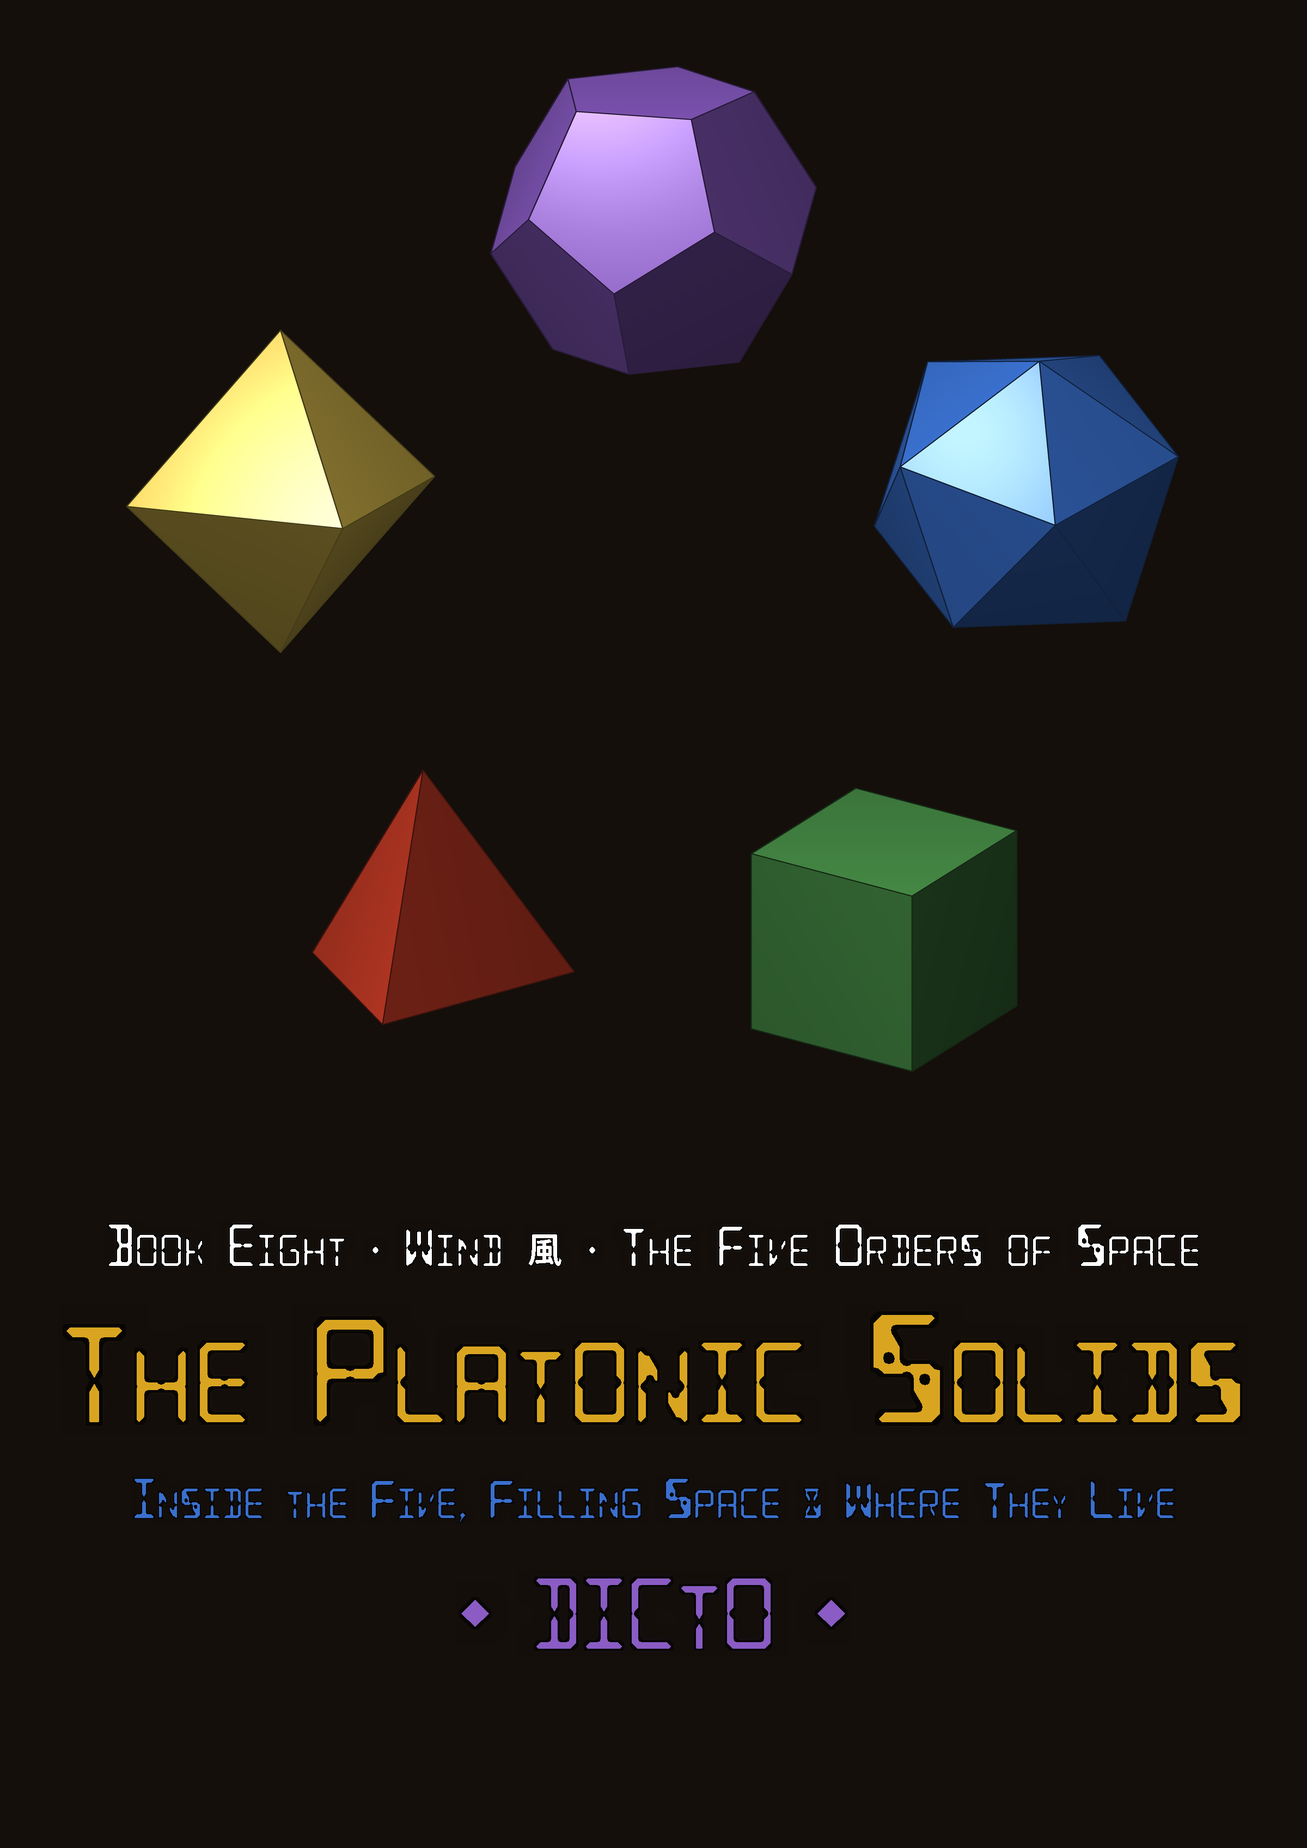
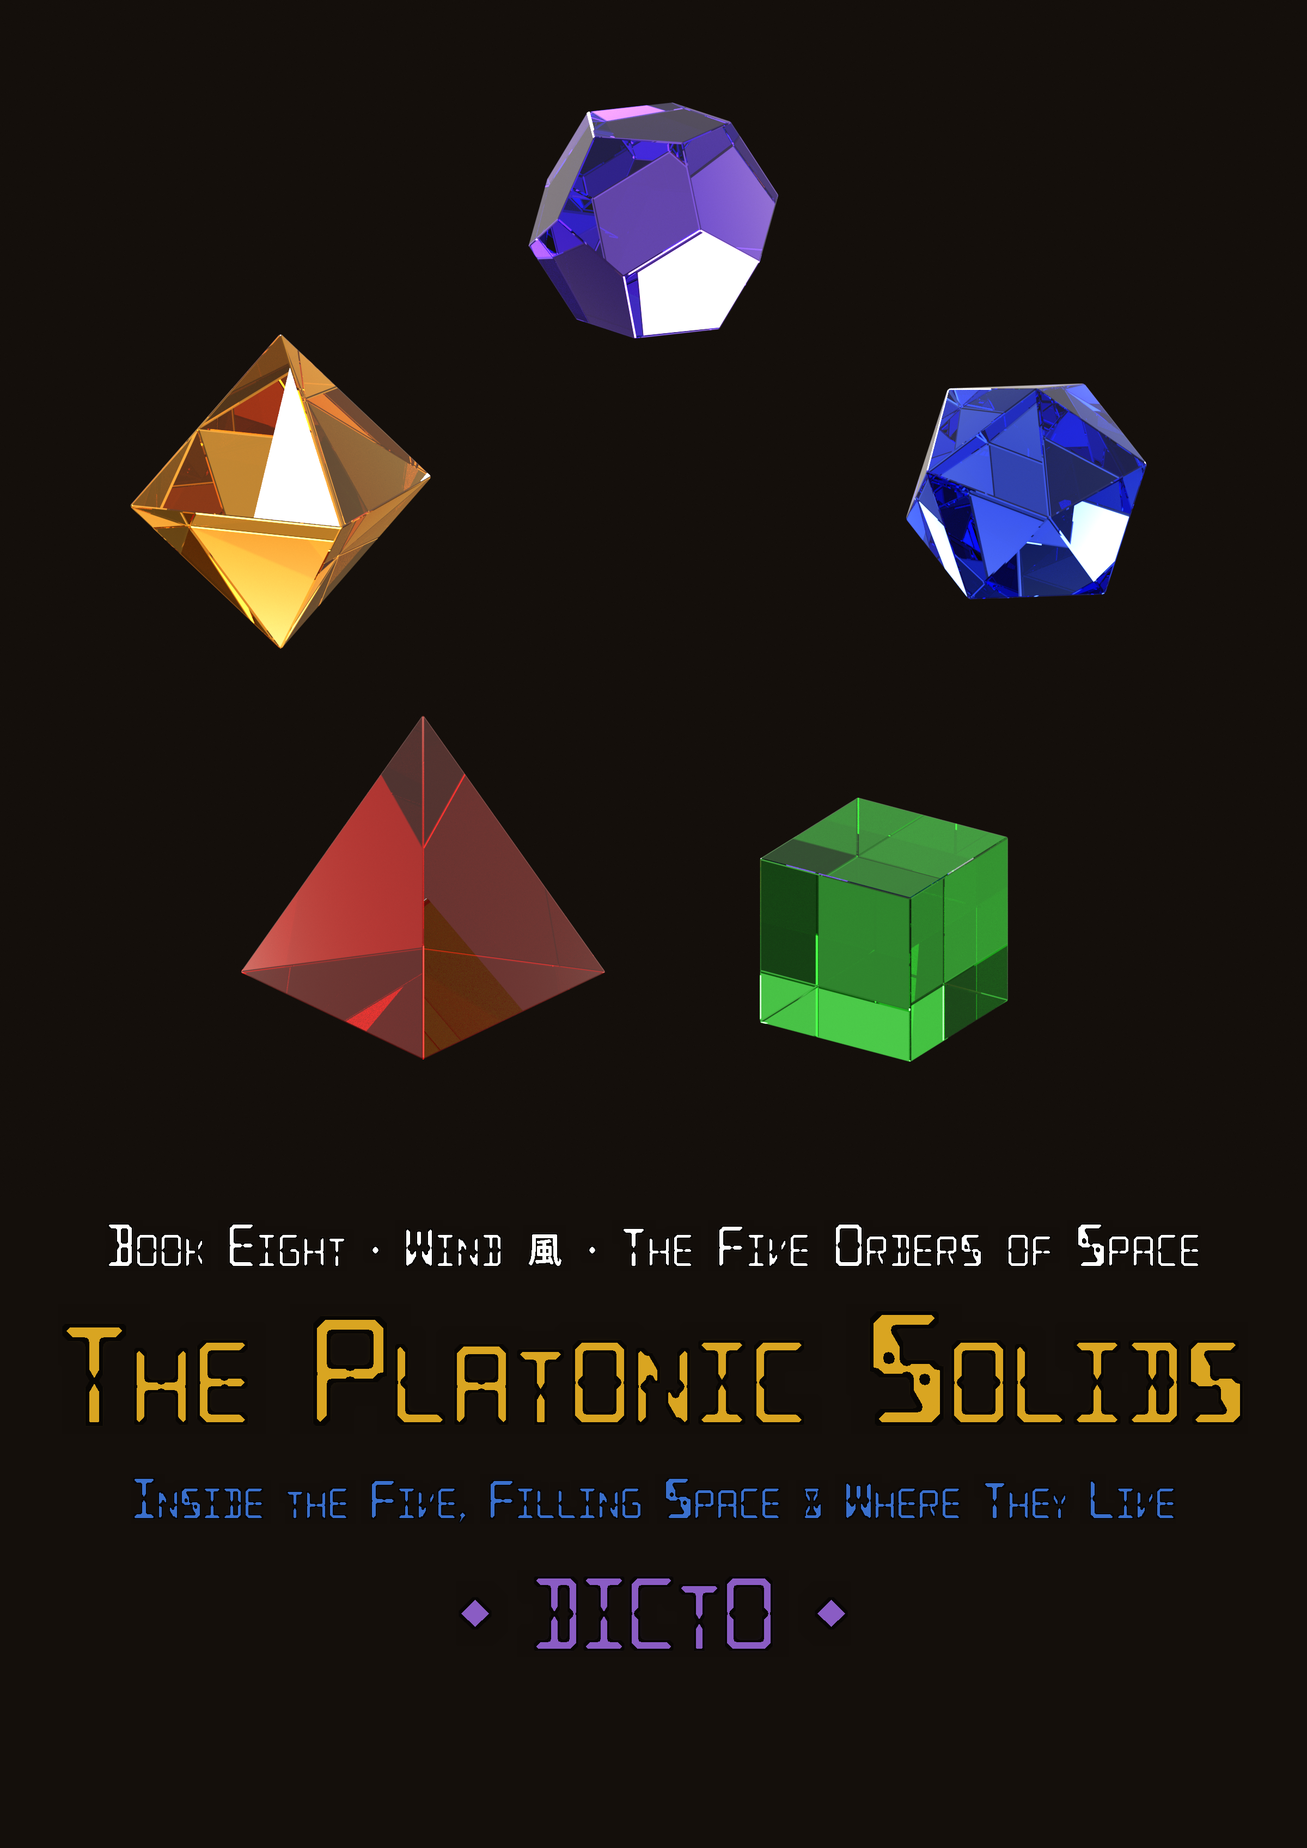
Platonic series cover, circle design: the five at equal volume, as translucent deep crystal (Cycles)

diff --git a/studies/2026-11-15-platonic-cover-circle/scripts/crystal_circle.py b/studies/2026-11-15-platonic-cover-circle/scripts/crystal_circle.py
@@ -1,0 +1,156 @@
+# The Platonic Solids, series front cover, circle design (DICTO, 15 Nov 2026: "just the five solids plain in a circle in DICTO order,
+# Dodecahedron at the top"; then: the five at EQUAL VOLUME, and TRANSLUCENT as deep crystal). The five Platonic solids, plain (no
+# settings), evenly on a circle 72 degrees apart: Dodecahedron at the top, then clockwise Icosahedron, Cube, Tetrahedron, Octahedron,
+# in their element colours (DICTO square, 10-22), all of the same volume. Each turned to a recognisable view.
+# Path-traced in Blender Cycles (CPU). Crystal = the material of the ring design (studies/2026-11-15-platonic-cover/scripts/ring_scene.py):
+# refractive glass (IOR 1.45), tinted, with a volume absorption in the element colour (deeper colour where thicker); small bevels give
+# bright facet edges; light reaching a solid through its body comes from a banded light box, so back facets and edges show inside it.
+# Orthographic camera; the camera sees only the cover ground (20, 15, 11).
+# Run: blender -b -P crystal_circle.py -- OUT.png WIDTH HEIGHT SAMPLES     (the 2400 x 2200 picture block; lettering by compose.py)
+import bpy, bmesh, sys, math, itertools
+from mathutils import Vector, Matrix
+argv = sys.argv[sys.argv.index('--') + 1:]
+OUT, RW, RH, SAMPLES = argv[0], int(argv[1]), int(argv[2]), int(argv[3])
+PHI = (1 + 5 ** 0.5) / 2; R2, R5 = 2 ** 0.5, 5 ** 0.5
+FAIL = []
+def X(name, ok, detail=''):
+    print(('X PASS ' if ok else 'X FAIL ') + name + (f': {detail}' if detail != '' else ''), flush=True)
+    if not ok: FAIL.append(name)
+# ------------------------------------------------------------------ the five solids at edge 1 (standard coordinates, scaled)
+cyc = lambda a, b, c: [(a, b, c), (c, a, b), (b, c, a)]
+def signs(v): return sorted({tuple(x * t for x, t in zip(v, s)) for s in itertools.product((1, -1), repeat=3)})
+CUBE8 = signs((1, 1, 1))
+SOLIDS = {
+    'D': [tuple(x * PHI / 2 for x in v) for v in CUBE8 + [w for c in cyc(0, 1 / PHI, PHI) for w in signs(c)]],
+    'I': [tuple(x / 2 for x in w) for c in cyc(0, 1, PHI) for w in signs(c)],
+    'C': [tuple(x / 2 for x in v) for v in CUBE8],
+    'T': [tuple(x / (2 * R2) for x in v) for v in CUBE8 if v[0] * v[1] * v[2] > 0],
+    'O': [tuple(x / R2 for x in w) for c in cyc(1, 0, 0) for w in signs(c)],
+}
+ORDER = 'DICTO'
+NV, NF, NE = {'D': 20, 'I': 12, 'C': 8, 'T': 4, 'O': 6}, {'D': 12, 'I': 20, 'C': 6, 'T': 4, 'O': 8}, {'D': 30, 'I': 30, 'C': 12, 'T': 6, 'O': 12}
+COL = {'D': (138, 92, 196), 'I': (58, 112, 205), 'C': (72, 142, 72), 'T': (205, 62, 40), 'O': (232, 200, 82)}   # element colours
+# exact volumes at edge 1
+VOL1 = {'D': (15 + 7 * R5) / 4, 'I': 5 * (3 + R5) / 12, 'C': 1.0, 'T': 1 / (6 * R2), 'O': R2 / 3}
+# EQUAL VOLUME (DICTO 15 Nov): edge of each = (V / VOL1)^(1/3); V = the common volume in cover units (1 unit = 100 px)
+VCOMMON = 36.0
+EDGE = {k: (VCOMMON / VOL1[k]) ** (1 / 3) for k in ORDER}
+print('edges at equal volume (cube edge = 1): ' + ', '.join(f'{k} {EDGE[k] / EDGE["C"]:.6f}' for k in ORDER), flush=True)
+lin = lambda c: tuple(((x / 255 + 0.055) / 1.055) ** 2.4 if x / 255 > 0.04045 else x / 255 / 12.92 for x in c)
+# ------------------------------------------------------------------ poses (as the opaque draft: x right, y up, z toward the viewer)
+def rot(ax, deg): return Matrix.Rotation(math.radians(deg), 3, Vector(ax).normalized())
+def align(a, b): return Vector(a).normalized().rotation_difference(Vector(b).normalized()).to_matrix()
+Rx = lambda d: rot((1, 0, 0), d); Ry = lambda d: rot((0, 1, 0), d); Rz = lambda d: rot((0, 0, 1), d)
+def upright(A, p):
+    q = A @ Vector(p); return Rz(90 - math.degrees(math.atan2(q.y, q.x))) @ A
+A5 = align((0, 1, PHI), (0, 0, 1))
+POSE = {
+    'D': Rx(16) @ Ry(-14) @ A5,                       # a pentagon face toward the viewer, tipped to show its ring
+    'I': Rx(12) @ Ry(10) @ upright(A5, (0, -1, PHI)),  # a corner toward the viewer: the five-triangle cap, one point up
+    'C': Rx(24) @ Ry(-33),                            # three faces: front, side and top (not square-on)
+    'T': Rx(16) @ Ry(15) @ align((1, 1, 1), (0, 1, 0)),  # apex up, standing on a face, two side faces seen
+    'O': Rx(14) @ Ry(22),                             # a corner up: the double pyramid
+}
+TOB = Matrix(((1, 0, 0), (0, 0, -1), (0, 1, 0)))     # (x right, y up, z to viewer) -> Blender (x right, z up, -y to viewer)
+# ------------------------------------------------------------------ layout: circle, D at the top, clockwise D I C T O (picture pixels)
+W, H, CX, CY, RC = 2400, 2200, 1200, 1125, 720
+CEN = {}
+for i, k in enumerate(ORDER):
+    th = math.radians(90 - 72 * i); CEN[k] = (CX + RC * math.cos(th), CY - RC * math.sin(th))
+X('D at the top of the circle', abs(CEN['D'][0] - CX) < 1e-9 and CEN['D'][1] < CY)
+X('clockwise D I C T O', CEN['I'][0] > CX > CEN['O'][0] and CEN['C'][1] > CY and CEN['C'][0] > CX and CEN['T'][0] < CX)
+gaps = [math.dist(CEN[ORDER[i]], CEN[ORDER[(i + 1) % 5]]) for i in range(5)]
+X('evenly spaced, 72 degrees', max(gaps) - min(gaps) < 1e-9, f'{min(gaps):.1f} px between centres')
+# ------------------------------------------------------------------ scene
+bpy.ops.wm.read_factory_settings(use_empty=True)
+sc = bpy.context.scene
+def hull_mesh(name, pts):
+    bm = bmesh.new(); [bm.verts.new(p) for p in pts]; bm.verts.ensure_lookup_table()
+    bmesh.ops.convex_hull(bm, input=bm.verts[:])
+    bmesh.ops.dissolve_limit(bm, angle_limit=math.radians(0.5), verts=bm.verts[:], edges=bm.edges[:])
+    me = bpy.data.meshes.new(name); bm.to_mesh(me); bm.free(); return me
+def crystal_mat(k):
+    m = bpy.data.materials.new('crystal' + k); m.use_nodes = True; nt = m.node_tree; b = nt.nodes['Principled BSDF']
+    c = lin(COL[k]); tint = tuple(0.15 + 0.85 * x for x in c)
+    b.inputs['Base Color'].default_value = (*tint, 1); b.inputs['Metallic'].default_value = 0.0
+    b.inputs['Roughness'].default_value = 0.0; b.inputs['IOR'].default_value = 1.45; b.inputs['Transmission Weight'].default_value = 1.0
+    cs = tuple(0.92 * x / max(c) for x in c)   # the element colour at full strength: its own hue passes, the others are absorbed
+    va = nt.nodes.new('ShaderNodeVolumeAbsorption'); va.inputs['Color'].default_value = (*cs, 1); va.inputs['Density'].default_value = DENS[k]
+    nt.links.new(va.outputs[0], nt.nodes['Material Output'].inputs['Volume']); return m
+DENS = {'D': 0.42, 'I': 0.50, 'C': 0.60, 'T': 0.80, 'O': 0.55}   # per cover unit, tuned by eye so all five read as deep colour
+reach = {}
+for k in ORDER:
+    s = EDGE[k]; me = hull_mesh(k, [tuple(s * x for x in p) for p in SOLIDS[k]])
+    vs = [v.co.copy() for v in me.vertices]; es = [(me.vertices[a].co - me.vertices[b].co).length for a, b in (e.vertices for e in me.edges)]
+    X(f'{k}: {len(vs)} corners, {len(me.polygons)} faces, {len(es)} edges', (len(vs), len(me.polygons), len(es)) == (NV[k], NF[k], NE[k]))
+    P = SOLIDS[k]; d = [math.dist(a, b) for a, b in itertools.combinations(P, 2)]
+    X(f'{k}: edge-1 coordinates exact (shortest corner distance 1 in doubles, attained {NE[k]} times)', abs(min(d) - 1) < 1e-12 and sum(abs(x - 1) < 1e-12 for x in d) == NE[k])
+    X(f'{k}: every mesh edge = {s:.6f} (single precision)', max(abs(e - s) for e in es) < 1e-5 * s)
+    # volume of the mesh (divergence theorem over its faces) against the common volume
+    vol = sum(Vector(me.vertices[p.vertices[0]].co).dot(Vector(me.vertices[p.vertices[i]].co).cross(Vector(me.vertices[p.vertices[i + 1]].co))) / 6
+              for p in me.polygons for i in range(1, len(p.vertices) - 1))
+    X(f'{k}: volume = {VCOMMON} (mesh, single precision)', abs(abs(vol) - VCOMMON) < 1e-4 * VCOMMON, f'{abs(vol):.5f}')
+    me.transform((TOB @ POSE[k]).to_4x4())
+    o = bpy.data.objects.new('solid' + k, me); sc.collection.objects.link(o); me.materials.append(crystal_mat(k))
+    cx, cy = CEN[k]; o.location = ((cx - W / 2) / 100, 0, (H / 2 - cy) / 100)
+    bv = o.modifiers.new('bevel', 'BEVEL'); bv.width = 0.03; bv.segments = 2; bv.limit_method = 'ANGLE'
+    reach[k] = max(v.co.length for v in me.vertices) * 100
+    px = [(cx + v.co.x * 100, cy - v.co.z * 100) for v in me.vertices]
+    X(f'{k}: inside the picture block (circumradius {reach[k]:.0f} px)', all(30 < x < W - 30 and 30 < y < H - 30 for x, y in px))
+cl = [gaps[i] - reach[ORDER[i]] - reach[ORDER[(i + 1) % 5]] for i in range(5)]
+X('neighbours clear of each other (centre distance > sum of circumradii)', min(cl) > 40, [round(c) for c in cl])
+# ------------------------------------------------------------------ studio (the ring design's, scaled 2.5x): soft boxes + light box
+w = bpy.data.worlds.new('studio'); sc.world = w
+if w.node_tree is None: w.use_nodes = True
+nt = w.node_tree; nd = nt.nodes
+bg = nd['Background']; lp = nd.new('ShaderNodeLightPath'); mix = nd.new('ShaderNodeMixShader')
+cam_bg = nd.new('ShaderNodeBackground'); cam_bg.inputs['Color'].default_value = (*lin((20, 15, 11)), 1); cam_bg.inputs['Strength'].default_value = 1
+tc = nd.new('ShaderNodeTexCoord'); sep = nd.new('ShaderNodeSeparateXYZ'); ramp = nd.new('ShaderNodeValToRGB')
+nt.links.new(tc.outputs['Generated'], sep.inputs[0])
+ma = nd.new('ShaderNodeMath'); ma.operation = 'MULTIPLY_ADD'; ma.inputs[1].default_value = 0.5; ma.inputs[2].default_value = 0.5
+nt.links.new(sep.outputs['Z'], ma.inputs[0]); nt.links.new(ma.outputs[0], ramp.inputs[0])
+ramp.color_ramp.elements[0].position = 0.0; ramp.color_ramp.elements[0].color = (0.02, 0.018, 0.016, 1)
+ramp.color_ramp.elements[1].position = 0.80; ramp.color_ramp.elements[1].color = (0.30, 0.29, 0.28, 1)
+e = ramp.color_ramp.elements.new(0.45); e.color = (0.10, 0.09, 0.08, 1)
+e = ramp.color_ramp.elements.new(0.53); e.color = (0.70, 0.64, 0.56, 1)
+nt.links.new(ramp.outputs['Color'], bg.inputs['Color']); bg.inputs['Strength'].default_value = 0.9
+box = nd.new('ShaderNodeBackground'); box.inputs['Strength'].default_value = 2.2
+ramp2 = nd.new('ShaderNodeValToRGB'); nt.links.new(ma.outputs[0], ramp2.inputs[0])
+ramp2.color_ramp.elements[0].color = (0.35, 0.33, 0.30, 1); ramp2.color_ramp.elements[1].color = (1.0, 0.98, 0.95, 1)
+wav = nd.new('ShaderNodeTexWave'); wav.wave_type = 'BANDS'; wav.bands_direction = 'DIAGONAL'; wav.inputs['Scale'].default_value = 1.1
+wav.inputs['Distortion'].default_value = 2.0; wav.inputs['Detail'].default_value = 0.0
+nt.links.new(tc.outputs['Generated'], wav.inputs['Vector'])
+wr = nd.new('ShaderNodeValToRGB'); nt.links.new(wav.outputs['Fac'], wr.inputs[0])
+wr.color_ramp.elements[0].position = 0.35; wr.color_ramp.elements[0].color = (0.12, 0.12, 0.12, 1)
+wr.color_ramp.elements[1].position = 0.65; wr.color_ramp.elements[1].color = (1, 1, 1, 1)
+mul = nd.new('ShaderNodeMix'); mul.data_type = 'RGBA'; mul.blend_type = 'MULTIPLY'; mul.inputs['Factor'].default_value = 1.0
+nt.links.new(ramp2.outputs['Color'], mul.inputs['A']); nt.links.new(wr.outputs['Color'], mul.inputs['B'])
+nt.links.new(mul.outputs['Result'], box.inputs['Color'])
+gt = nd.new('ShaderNodeMath'); gt.operation = 'GREATER_THAN'; gt.inputs[1].default_value = 0.5
+nt.links.new(lp.outputs['Transmission Depth'], gt.inputs[0])
+mixb = nd.new('ShaderNodeMixShader'); nt.links.new(gt.outputs[0], mixb.inputs['Fac']); nt.links.new(bg.outputs[0], mixb.inputs[1]); nt.links.new(box.outputs[0], mixb.inputs[2])
+nt.links.new(lp.outputs['Is Camera Ray'], mix.inputs['Fac']); nt.links.new(mixb.outputs[0], mix.inputs[1]); nt.links.new(cam_bg.outputs[0], mix.inputs[2])
+nt.links.new(mix.outputs[0], nd['World Output'].inputs['Surface'])
+S_, E_ = 2.5, 2.5 ** 2
+def softbox(name, loc, size, power, sx=None):
+    L = bpy.data.lights.new(name, 'AREA'); L.shape = 'RECTANGLE'; L.size = size * S_; L.size_y = (sx or size) * S_; L.energy = power * E_
+    o = bpy.data.objects.new(name, L); sc.collection.objects.link(o); o.location = Vector(loc) * S_
+    o.rotation_euler = (-o.location).to_track_quat('-Z', 'Y').to_euler(); return o
+softbox('key', (-9, -11, 12), 7, 5200, 3)
+softbox('rim', (10, 7, 6), 6, 3200, 2.5)
+softbox('fill', (6, -14, -3), 8, 1400, 4)
+softbox('top', (0, 2, 16), 10, 2200, 2)
+softbox('back', (-6, 14, 10), 9, 4500, 5)
+cam = bpy.data.cameras.new('cam'); cam.type = 'ORTHO'; cam.ortho_scale = W / 100; cam.sensor_fit = 'HORIZONTAL'
+co = bpy.data.objects.new('cam', cam); sc.collection.objects.link(co); sc.camera = co
+co.location = (0, -60, 0); co.rotation_euler = (math.radians(90), 0, 0)
+sc.render.engine = 'CYCLES'; cy = sc.cycles; cy.device = 'CPU'; cy.samples = SAMPLES; cy.use_denoising = True
+cy.max_bounces = 32; cy.glossy_bounces = 16; cy.transmission_bounces = 24; cy.transparent_max_bounces = 16; cy.volume_bounces = 2
+cy.diffuse_bounces = 2; cy.caustics_reflective = False; cy.caustics_refractive = False; cy.blur_glossy = 0.5
+sc.render.resolution_x, sc.render.resolution_y, sc.render.resolution_percentage = RW, RH, 100
+sc.view_settings.view_transform = 'Standard'; sc.view_settings.look = 'None'; sc.view_settings.exposure = 0.0
+sc.render.image_settings.file_format = 'PNG'; sc.render.image_settings.color_mode = 'RGB'; sc.render.filepath = OUT
+print('PROGRESS 0.10 scene built', flush=True)
+if FAIL: print('FINAL FAIL: ' + '; '.join(FAIL)); sys.exit(1)
+bpy.ops.render.render(write_still=True)
+print('PROGRESS 0.80 rendered', OUT, flush=True)

diff --git a/studies/2026-11-15-platonic-cover-circle/README.md b/studies/2026-11-15-platonic-cover-circle/README.md
@@ -1,28 +1,33 @@
 # Series front cover for The Platonic Solids, circle design (15 Nov 2026) - DICTO · dictospheres.com
 
-Cover by DICTO: "just the five solids plain in a circle in DICTO order, Dodecahedron at the top". Not yet in the book: the current
-white cover (book-platonic/front.html, cover/cover-skins.png) stays until DICTO chooses.
+Cover by DICTO: "just the five solids plain in a circle in DICTO order, Dodecahedron at the top"; then the five at equal volume, as
+translucent deep crystal. Not yet in the book: the current white cover (book-platonic/front.html, cover/cover-skins.png) stays until
+DICTO chooses.
 
-- Image: the five Platonic solids, plain and opaque, in the element colours of the DICTO square: Dodecahedron violet (138, 92, 196),
-  Icosahedron blue (58, 112, 205), Cube green (72, 142, 72), Tetrahedron red (205, 62, 40), Octahedron yellow (232, 200, 82).
-  Evenly on one circle, 72 degrees apart: Dodecahedron at the top, then clockwise Icosahedron, Cube, Tetrahedron, Octahedron.
-  All five at the same circumradius (305 px on the 2400 px wide cover; circle radius 720 px), so the circle reads balanced.
-- Views: Dodecahedron with a pentagon face toward the viewer, tipped to show the ring of faces around it; Icosahedron with a corner
+- Image: the five Platonic solids, plain (no settings), as deep crystal in the element colours of the DICTO square: Dodecahedron
+  violet (138, 92, 196), Icosahedron blue (58, 112, 205), Cube green (72, 142, 72), Tetrahedron red (205, 62, 40), Octahedron yellow
+  (232, 200, 82). Evenly on one circle (radius 720 px on the 2400 px wide cover), 72 degrees apart: Dodecahedron at the top, then
+  clockwise Icosahedron, Cube, Tetrahedron, Octahedron.
+- Equal volume: volume at edge 1 (exact) D (15 + 7√5)/4, I 5(3 + √5)/12, C 1, T 1/(6√2), O √2/3. Each edge = (V / volume at edge 1)^(1/3)
+  for one common V, so the edges stand, with the cube's edge 1, at D 0.507222, I 0.771025, C 1, T 2.039649, O 1.284898
+  (V = 36 cover units³, 1 unit = 100 px; circumradii 235, 242, 286, 412 and 300 px).
+- Views: Dodecahedron with a pentagon face toward the viewer, tipped to show the ring of faces round it; Icosahedron with a corner
   toward the viewer (the five-triangle cap), one point up; Cube in a three-quarter view (front, side and top, not square-on);
-  Tetrahedron standing on a face, apex up, two side faces seen; Octahedron corner up (the double pyramid), four faces seen.
-- Drawing: as the Golden Cycle cover's solids (studies/2026-10-29-golden-cover/scripts/golden_square.py): solid faces lit from the
-  upper left, plus a gloss highlight per pixel from a point light, a soft sky term in the reflection and depth shading (nearer =
-  brighter, no haze); edges in a dark shade of each solid's colour, supersampled 3x and reduced, so they are crisp and antialiased.
-  Series ground (20, 15, 11).
-- Lettering exactly as the previous design (studies/2026-11-15-platonic-cover): series line white, title in the series gold
-  (217, 165, 33), subtitle in the icosahedron's blue (58, 112, 205), and the ◆ DICTO ◆ mark (front and back) in the dodecahedron's
-  violet (138, 92, 196).
-- Checks (X PASS lines): corner, face and edge counts of the five solids; every corner at circumradius 1 (1e-12); shortest corner
-  distance attained by every edge (1e-12); Dodecahedron at the top and the clockwise order; even 72-degree spacing with the solids
-  clear of each other; all inside the picture block; at least two faces seen on each solid.
+  Tetrahedron standing on a face, apex up, two side faces seen; Octahedron corner up (the double pyramid).
+- Rendering: path-traced in Blender Cycles (CPU, 1024 samples, denoised, 2400 x 2200 picture block, orthographic camera). Crystal
+  and studio as the ring design (studies/2026-11-15-platonic-cover): refractive glass (IOR 1.45), tinted, with a volume absorption
+  in the element colour at full strength (its own hue passes, the others are absorbed), so the colour deepens where the solid is
+  thicker; small bevels give bright facet edges; light reaching a solid through its body comes from a banded light box, so the back
+  facets and edges show inside it; soft boxes give the glints. The camera sees only the cover ground (20, 15, 11).
+- Lettering exactly as the previous design: series line white, title in the series gold (217, 165, 33), subtitle in the
+  icosahedron's blue (58, 112, 205), and the ◆ DICTO ◆ mark (front and back) in the dodecahedron's violet (138, 92, 196).
+- Checks (X PASS lines): corner, face and edge counts; edge-1 coordinates exact (shortest corner distance 1 in doubles, attained by
+  every edge); every mesh edge at its scaled length; every mesh volume = the common volume; Dodecahedron at the top, clockwise order,
+  even 72-degree spacing; neighbours clear of each other; all inside the picture block.
 
-Files: scripts/circle_scene.py (the picture), scripts/compose.py (cover ground + lettering + back mark), scripts/compare.py (the
-five-cover comparison sheet: Space-Fillers, Golden Cycle, Star Cores, Permutohedron Paradigm, Platonic Solids), scripts/run.sh
-(render + compose), scripts/ledtext.py (series LED lettering; DSEG14 by keshikan, SIL Open Font Licence, DSEG-LICENSE.txt; the kanji
-of the series line from Noto Sans CJK, SIL Open Font Licence). Outputs: platonic-cover-front-series.png (2400 x 3394),
-platonic-dicto-mark-back.png. Run through the job gate (pilot at SS=1, final at SS=3, FINAL ok).
+Files: scripts/crystal_circle.py (Blender scene and render), scripts/compose.py (cover ground + lettering + back mark),
+scripts/compare.py (the five-cover comparison sheet: Space-Fillers, Golden Cycle, Star Cores, Permutohedron Paradigm, Platonic
+Solids), scripts/run.sh (render + compose), scripts/ledtext.py (series LED lettering; DSEG14 by keshikan, SIL Open Font Licence,
+DSEG-LICENSE.txt; the kanji of the series line from Noto Sans CJK, SIL Open Font Licence). Outputs: platonic-cover-front-series.png
+(2400 x 3394), platonic-dicto-mark-back.png. Run through the job gate (pilots at 800 x 733; final FINAL ok). The first, opaque
+equal-circumradius drawing is in this folder's git history.
